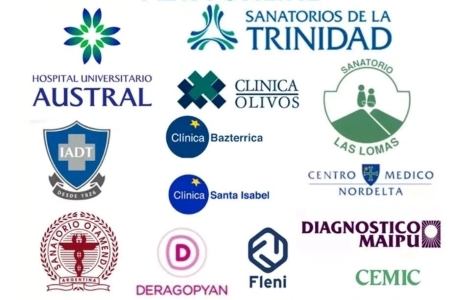
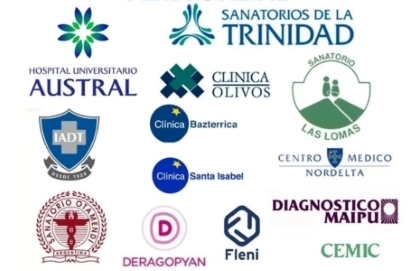
arreglo.carrousel

diff --git a/css/style.css b/css/style.css
@@ -229,10 +229,12 @@ div.ventas{
     justify-content: center;
     margin-top: 5px;
     margin-bottom: 5px;
-   
-   
+ }
+ #id.carouselExampleControls img{
+    width: 100%;
+ }
 
-}
+
 section.contacto{
     display: flex;
     justify-content: space-between;
